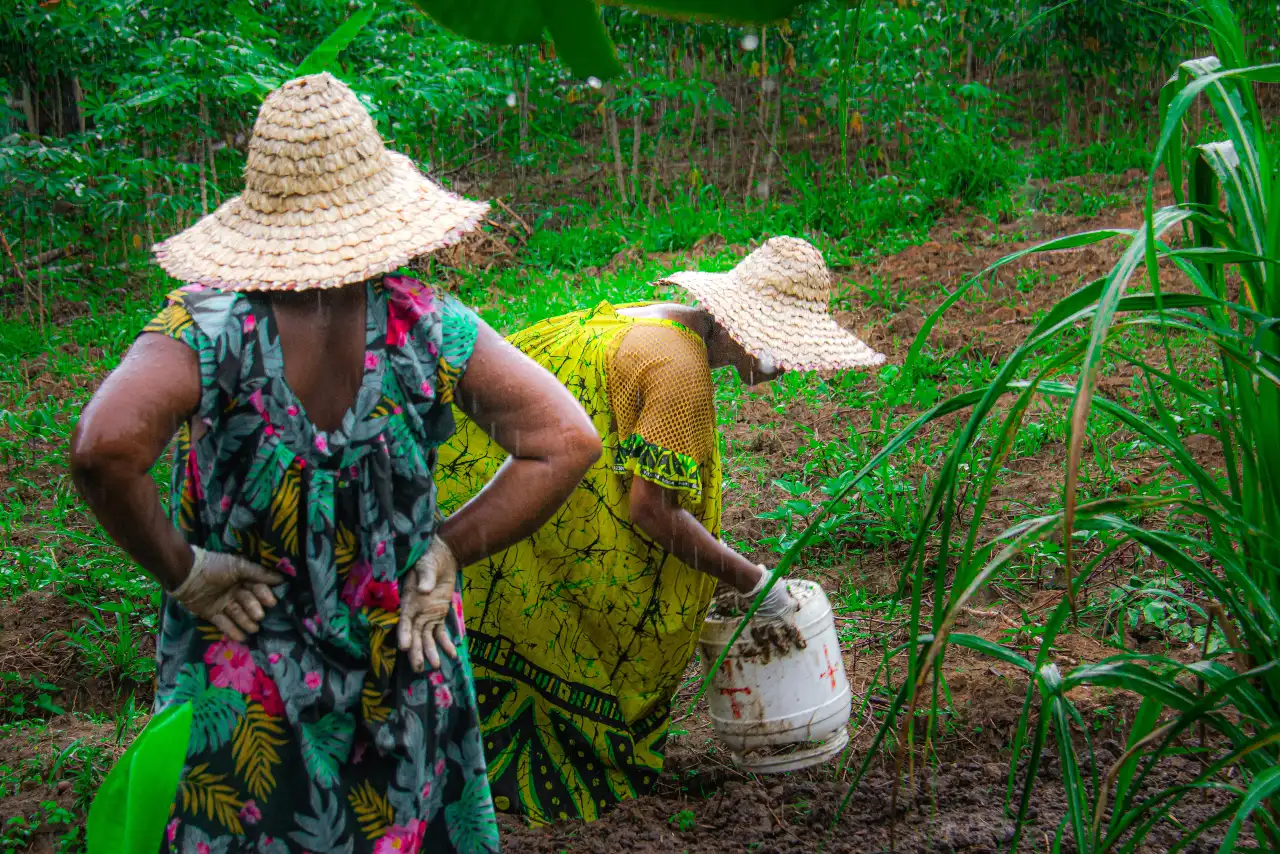
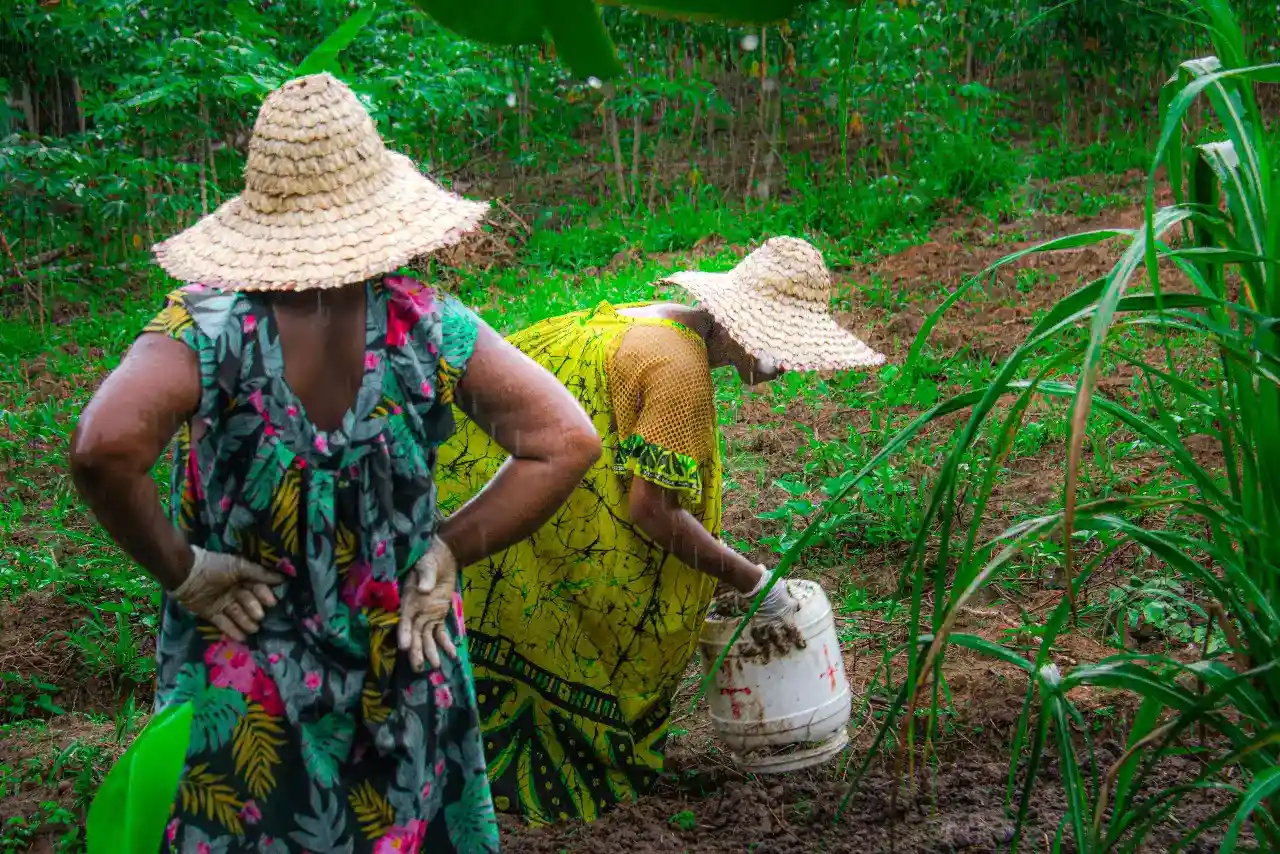
Country page Changes

diff --git a/place.html b/place.html
@@ -20,7 +20,7 @@
             <picture>
                 <source srcset="images/farming.webp" media="(min-width: 1000px)">
                 <source srcset="images/farming.webp" media="(min-width: 600px)">
-                <img src="images/Perroquet-du-Gabon.webp" alt="Perroquet gris" width="500" height="700">
+                <img src="images/perroquet-du-gabon.webp" alt="Perroquet gris" width="500" height="700">
             </picture>
         </div>
         <section class="data">

diff --git a/styles/place.css b/styles/place.css
@@ -134,6 +134,11 @@ footer {
         text-transform: uppercase;
         letter-spacing: 1px;
     }
+
+    .data h3::after {
+        content: "📃";
+        margin-left: .5rem;
+    }
 }
 
 @media (max-width: 600px) {
